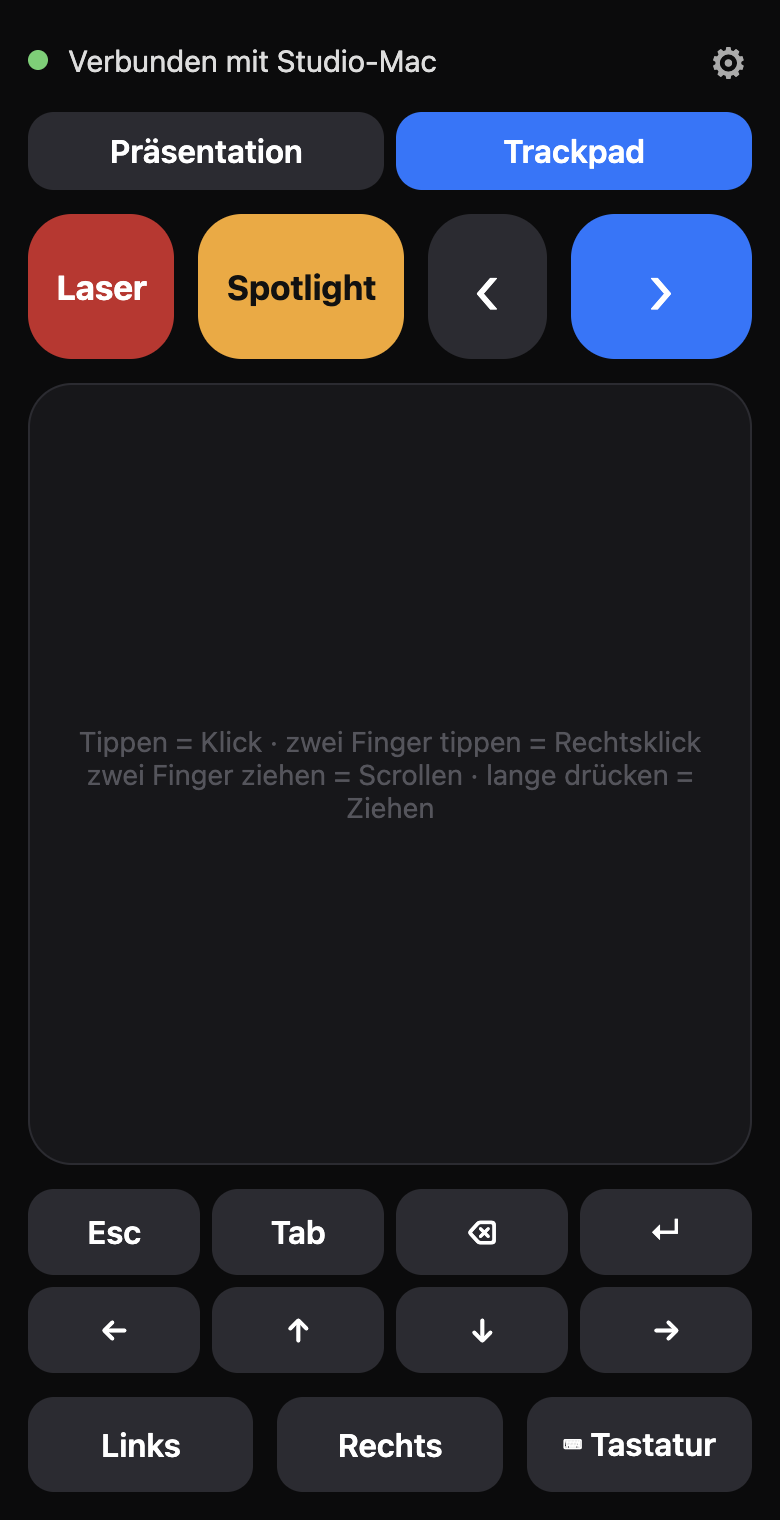
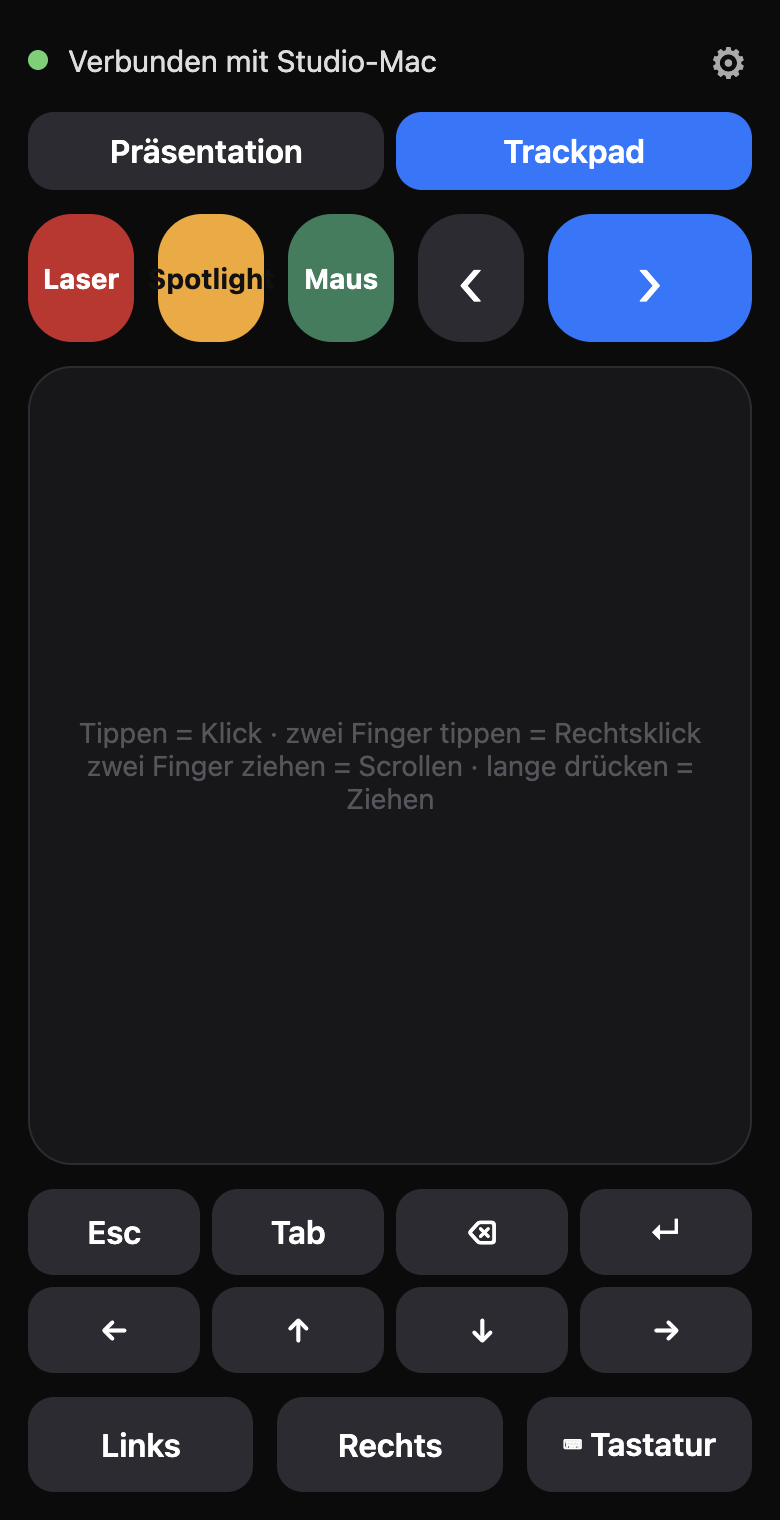
Air mouse mode and a clear notice when macOS blocks input
- New pointer mode "mouse": the phone's motion moves the real cursor,
  scaled to the presentation screen like the laser.
- The phone shows a notice when injected mouse/keyboard events are
  blocked (macOS Accessibility missing or stale after an unsigned
  update); the desktop opens the permission prompt on first use.

Claude-Session: https://claude.ai/code/session_01481NvTndpAZLZSmhEr9PnL

diff --git a/desktop/src/remote.html b/desktop/src/remote.html
@@ -21,10 +21,10 @@ header{display:flex;align-items:center;gap:10px;min-height:32px}
 main{flex:1;display:flex;flex-direction:column;gap:12px;margin-top:12px;min-height:0}
 .row{display:flex;gap:12px}
 .big{flex:1.3}.nav{flex:1}
-.pad{flex:1;border:0;border-radius:22px;color:#fff;font-size:24px;font-weight:700;touch-action:none;
+.pad{flex:1 1 0;min-width:0;border:0;border-radius:22px;color:#fff;font-size:24px;font-weight:700;touch-action:none;
   display:flex;flex-direction:column;align-items:center;justify-content:center;transition:transform .08s,opacity .08s}
 .pad small{font-size:13px;font-weight:400;margin-top:6px;opacity:.8;padding:0 8px;text-align:center}
-.laser{background:#c62828}.spot{background:#f5a623;color:#111}
+.laser{background:#c62828}.spot{background:#f5a623;color:#111}.mouse{background:#2e7d5b}
 .pad.on{opacity:.7;transform:scale(.97)}
 .prev{flex:1;background:#2b2b31;font-size:64px;font-weight:300}
 .next{flex:2;background:#1677ff;font-size:64px;font-weight:300}
@@ -39,7 +39,7 @@ h1{font-size:26px;margin:0 0 6px}
 .set button{padding:8px 16px}
 .val{width:44px;text-align:center}
 .tabs{display:flex;gap:6px;margin-top:10px}.tabs button{flex:1;padding:10px}.tabs button.on{background:#1677ff}
-.mini{flex:0 0 64px}.mini .pad{font-size:17px}.mini .pad small{display:none}
+.mini{flex:0 0 64px}.mini .pad{font-size:14px;padding:0 2px}.mini .pad small{display:none}
 .mini .prev,.mini .next{font-size:38px}
 #pad{flex:1;border-radius:22px;background:#17171a;border:1px solid #2b2b31;touch-action:none;display:flex;
   align-items:center;justify-content:center;color:#55555c;font-size:14px;text-align:center;padding:20px}
@@ -79,6 +79,12 @@ h1{font-size:26px;margin:0 0 6px}
   <button data-tab="track">Trackpad</button>
 </nav>
 
+<div id="inputBanner" class="banner hidden">
+  Maus und Tastatur sind am Mac noch nicht freigegeben. Am Mac: Systemeinstellungen → Datenschutz &amp; Sicherheit →
+  Bedienungshilfen → <b>LZ Spotlight Presenter</b> einschalten. Steht der Schalter schon auf an (nach einem Update):
+  Eintrag mit „–“ entfernen, App neu starten und erneut erlauben.
+</div>
+
 <div id="motionBanner" class="banner hidden">
   <span id="motionText"></span>
   <button class="primary hidden" id="motionBtn" style="width:100%">Bewegungssensor erlauben</button>
@@ -88,6 +94,7 @@ h1{font-size:26px;margin:0 0 6px}
   <div class="row big">
     <button class="pad laser" data-mode="laser">Laser<small class="hint"></small></button>
     <button class="pad spot" data-mode="spotlight">Spotlight<small class="hint"></small></button>
+    <button class="pad mouse" data-mode="mouse">Maus<small class="hint"></small></button>
   </div>
   <div class="row nav">
     <button class="pad prev" data-key="prev">‹</button>
@@ -104,6 +111,7 @@ h1{font-size:26px;margin:0 0 6px}
   <div class="row mini">
     <button class="pad laser" data-mode="laser">Laser<small class="hint"></small></button>
     <button class="pad spot" data-mode="spotlight">Spotlight<small class="hint"></small></button>
+    <button class="pad mouse" data-mode="mouse">Maus<small class="hint"></small></button>
     <button class="pad prev" data-key="prev">‹</button>
     <button class="pad next" data-key="next">›</button>
   </div>
@@ -155,6 +163,7 @@ function connect() {
   ws.onmessage = (e) => {
     const msg = JSON.parse(e.data);
     if (msg.type === "welcome") { connected = true; setStatus("Verbunden mit " + msg.host, true); show(tab); }
+    if ("input" in msg) $("inputBanner").classList.toggle("hidden", msg.input !== false);
     if (msg.type === "error") { key = ""; store.set("lzspot.key", ""); }
   };
   ws.onclose = () => {

diff --git a/desktop/src/main.js b/desktop/src/main.js
@@ -74,11 +74,43 @@ function pushPointer() {
   if (overlayWin && !overlayWin.isDestroyed()) overlayWin.webContents.send("pointer", pointer);
 }
 
+// macOS drops injected mouse and key events silently without the
+// Accessibility permission. An unsigned app loses it with every update even
+// though the switch in System Settings still looks on.
+function inputAllowed() {
+  return process.platform !== "darwin" || systemPreferences.isTrustedAccessibilityClient(false);
+}
+
+let askedAccessibility = false;
+function checkInput() {
+  if (inputAllowed()) return true;
+  if (!askedAccessibility) {
+    askedAccessibility = true;
+    systemPreferences.isTrustedAccessibilityClient(true);
+  }
+  return false;
+}
+
+let lastInputState = null;
+function publishInputState() {
+  const ok = inputAllowed();
+  if (ok === lastInputState) return;
+  lastInputState = ok;
+  server.broadcast({ type: "status", input: ok });
+}
+
 function handleMessage(msg) {
+  if (["key", "mouse", "button", "scroll", "text"].includes(msg.type) || (msg.type === "mode" && msg.mode === "mouse")) checkInput();
   switch (msg.type) {
     case "move":
-      applyMove(pointer, Number(msg.dx), Number(msg.dy));
-      pushPointer();
+      if (pointer.mode === "mouse") {
+        // Same motion as the laser, but on the system cursor.
+        const { width, height } = targetDisplay().bounds;
+        input.move(Number(msg.dx) * width, Number(msg.dy) * height);
+      } else {
+        applyMove(pointer, Number(msg.dx), Number(msg.dy));
+        pushPointer();
+      }
       break;
     case "mode":
       setMode(pointer, msg.mode);
@@ -124,7 +156,7 @@ async function controlState() {
     })),
     displayId: targetDisplay().id,
     platform: process.platform,
-    accessibility: process.platform !== "darwin" || systemPreferences.isTrustedAccessibilityClient(false)
+    accessibility: inputAllowed()
   };
 }
 
@@ -180,6 +212,7 @@ app.whenReady().then(() => {
   server = startServer({
     port: PORT,
     getKeys: () => ({ code: config.token, secret: config.secret }),
+    getStatus: () => ({ input: inputAllowed() }),
     onMessage: handleMessage,
     onClients: (list) => {
       clients = list;
@@ -210,7 +243,10 @@ app.whenReady().then(() => {
     });
   }
   // Accessibility can be granted while the app runs.
-  setInterval(refreshControl, 3000);
+  setInterval(() => {
+    refreshControl();
+    publishInputState();
+  }, 3000);
 });
 
 app.on("before-quit", () => {

diff --git a/desktop/src/server.js b/desktop/src/server.js
@@ -13,7 +13,7 @@ const { ACTIONS, parseMessage, isAuthorized } = require("./state");
 // count as authorised with the long secret.
 const viaInternet = (req) => Boolean(req.headers["cf-connecting-ip"]);
 
-function startServer({ port, getKeys, onMessage, onClients }) {
+function startServer({ port, getKeys, getStatus = () => ({}), onMessage, onClients }) {
   const remoteHtml = fs.readFileSync(path.join(__dirname, "remote.html"));
 
   const server = http.createServer((req, res) => {
@@ -39,7 +39,7 @@ function startServer({ port, getKeys, onMessage, onClients }) {
     }
     const cmd = match[1];
     if (ACTIONS.includes(cmd)) onMessage({ type: "key", action: cmd });
-    else if (["laser", "spotlight", "off"].includes(cmd)) onMessage({ type: "mode", mode: cmd });
+    else if (["laser", "spotlight", "mouse", "off"].includes(cmd)) onMessage({ type: "mode", mode: cmd });
     else {
       res.writeHead(404).end("unknown command");
       return;
@@ -65,7 +65,7 @@ function startServer({ port, getKeys, onMessage, onClients }) {
           clearTimeout(kick);
           clients.add(socket);
           socket.deviceName = String(msg.device || "Handy").slice(0, 60) + (internet ? " (Internet)" : "");
-          socket.send(JSON.stringify({ type: "welcome", host: os.hostname() }));
+          socket.send(JSON.stringify({ type: "welcome", host: os.hostname(), ...getStatus() }));
           onClients(list());
         } else {
           socket.send(JSON.stringify({ type: "error", reason: "token" }));
@@ -87,6 +87,10 @@ function startServer({ port, getKeys, onMessage, onClients }) {
   server.listen(port, "0.0.0.0");
   return {
     server,
+    broadcast(msg) {
+      const data = JSON.stringify(msg);
+      for (const c of clients) c.send(data);
+    },
     kickAll() {
       for (const c of clients) c.close(4003, "token changed");
     }

diff --git a/desktop/src/control.html b/desktop/src/control.html
@@ -62,7 +62,7 @@ label{display:block;margin-bottom:6px;color:#aaa}
 <div class="card">
   <label>Bitfocus Companion / Stream Deck (Generic HTTP)</label>
   <code id="api"></code>
-  <div class="muted" style="margin-top:6px">Befehle: next, prev, black, white, escape, start, laser, spotlight, off</div>
+  <div class="muted" style="margin-top:6px">Befehle: next, prev, black, white, escape, start, laser, spotlight, mouse, off</div>
 </div>
 
 <script>

diff --git a/desktop/src/state.js b/desktop/src/state.js
@@ -1,6 +1,7 @@
 // Pure pointer/protocol logic, shared by main process and tests.
 
-const MODES = ["off", "laser", "spotlight"];
+// "mouse": the phone aims the real mouse cursor instead of an overlay pointer.
+const MODES = ["off", "laser", "spotlight", "mouse"];
 const ACTIONS = ["next", "prev", "black", "white", "escape", "start"];
 
 function createPointer() {

diff --git a/desktop/test/state.test.js b/desktop/test/state.test.js
@@ -36,3 +36,9 @@ test("invalid input is rejected", () => {
   assert.strictEqual(parseMessage('{"a":1}'), null);
   assert.deepStrictEqual(parseMessage('{"type":"key"}'), { type: "key" });
 });
+
+test("mouse mode is a valid pointer mode", () => {
+  const p = createPointer();
+  setMode(p, "mouse");
+  assert.strictEqual(p.mode, "mouse");
+});

diff --git a/README.md b/README.md
@@ -42,6 +42,8 @@
 - **On top of every presentation.** PowerPoint, Keynote, Google Slides, PDF,
   a browser: the pointer is a transparent overlay that stays above full-screen
   apps and never takes focus away.
+- **Air mouse.** *Maus* works like the laser, but moves the real mouse
+  cursor – aim at a link or a video and tap to click.
 - **Trackpad and keyboard.** A second tab turns the phone into a touchpad –
   move, click, right-click, scroll, drag – and the phone keyboard types on the
   computer. Laser, spotlight and slide keys stay on the same screen.
@@ -93,6 +95,9 @@ Download from [Releases](https://github.com/larszu/lz-spotlight-presenter/releas
   *System Settings → Privacy & Security → Accessibility* for
   **LZ Spotlight Presenter**; the app has a button that opens the setting.
   Typing asks once to control *System Events*. Laser and spotlight work without either.
+  The app is unsigned, so macOS forgets this permission after every update
+  while the switch still looks on: remove the entry with “–”, restart the app
+  and allow it again. The phone shows a notice when this is needed.
 - **Windows** — `Setup.exe`. Allow *private networks* in the firewall prompt.
 
 ### Phone
@@ -114,7 +119,8 @@ npx expo start
 1. Start the desktop app. It shows a QR code.
 2. Scan it with the phone camera and open the link.
 3. Hold the phone like a remote: screen up, top edge towards the screen.
-4. Hold **Laser** or **Spotlight** and aim. The pointer starts in the centre.
+4. Hold **Laser**, **Spotlight** or **Maus** and aim. Laser and spotlight start
+   in the centre; *Maus* moves the real mouse cursor from where it is.
 
 **Trackpad tab:** one finger moves the mouse, tap = click, two-finger tap =
 right click, two fingers = scroll, long press = drag. *⌨ Tastatur* opens the
@@ -142,7 +148,7 @@ http://<computer-ip>:8787/api/<command>?token=<code>
 
 The 6-digit code works on the local network only.
 
-Commands: `next`, `prev`, `black`, `white`, `escape`, `start`, `laser`, `spotlight`, `off`.
+Commands: `next`, `prev`, `black`, `white`, `escape`, `start`, `laser`, `spotlight`, `mouse`, `off`.
 
 ## How it works
 
@@ -167,7 +173,7 @@ JSON over WebSocket. The first message is `{"type":"hello","token":"<key>"}`, th
 
 | Message | Meaning |
 |---|---|
-| `{"type":"mode","mode":"laser"\|"spotlight"\|"off"}` | show / hide the pointer |
+| `{"type":"mode","mode":"laser"\|"spotlight"\|"mouse"\|"off"}` | show / hide the pointer; `mouse` moves the system cursor |
 | `{"type":"move","dx":0.01,"dy":-0.004}` | move by a fraction of screen width / height |
 | `{"type":"key","action":"next"}` | `next`, `prev`, `black`, `white`, `escape`, `start`, `enter`, `backspace`, `tab`, `space`, `left`, `right`, `up`, `down` |
 | `{"type":"mouse","dx":12,"dy":-4}` | move the mouse by pixels |
